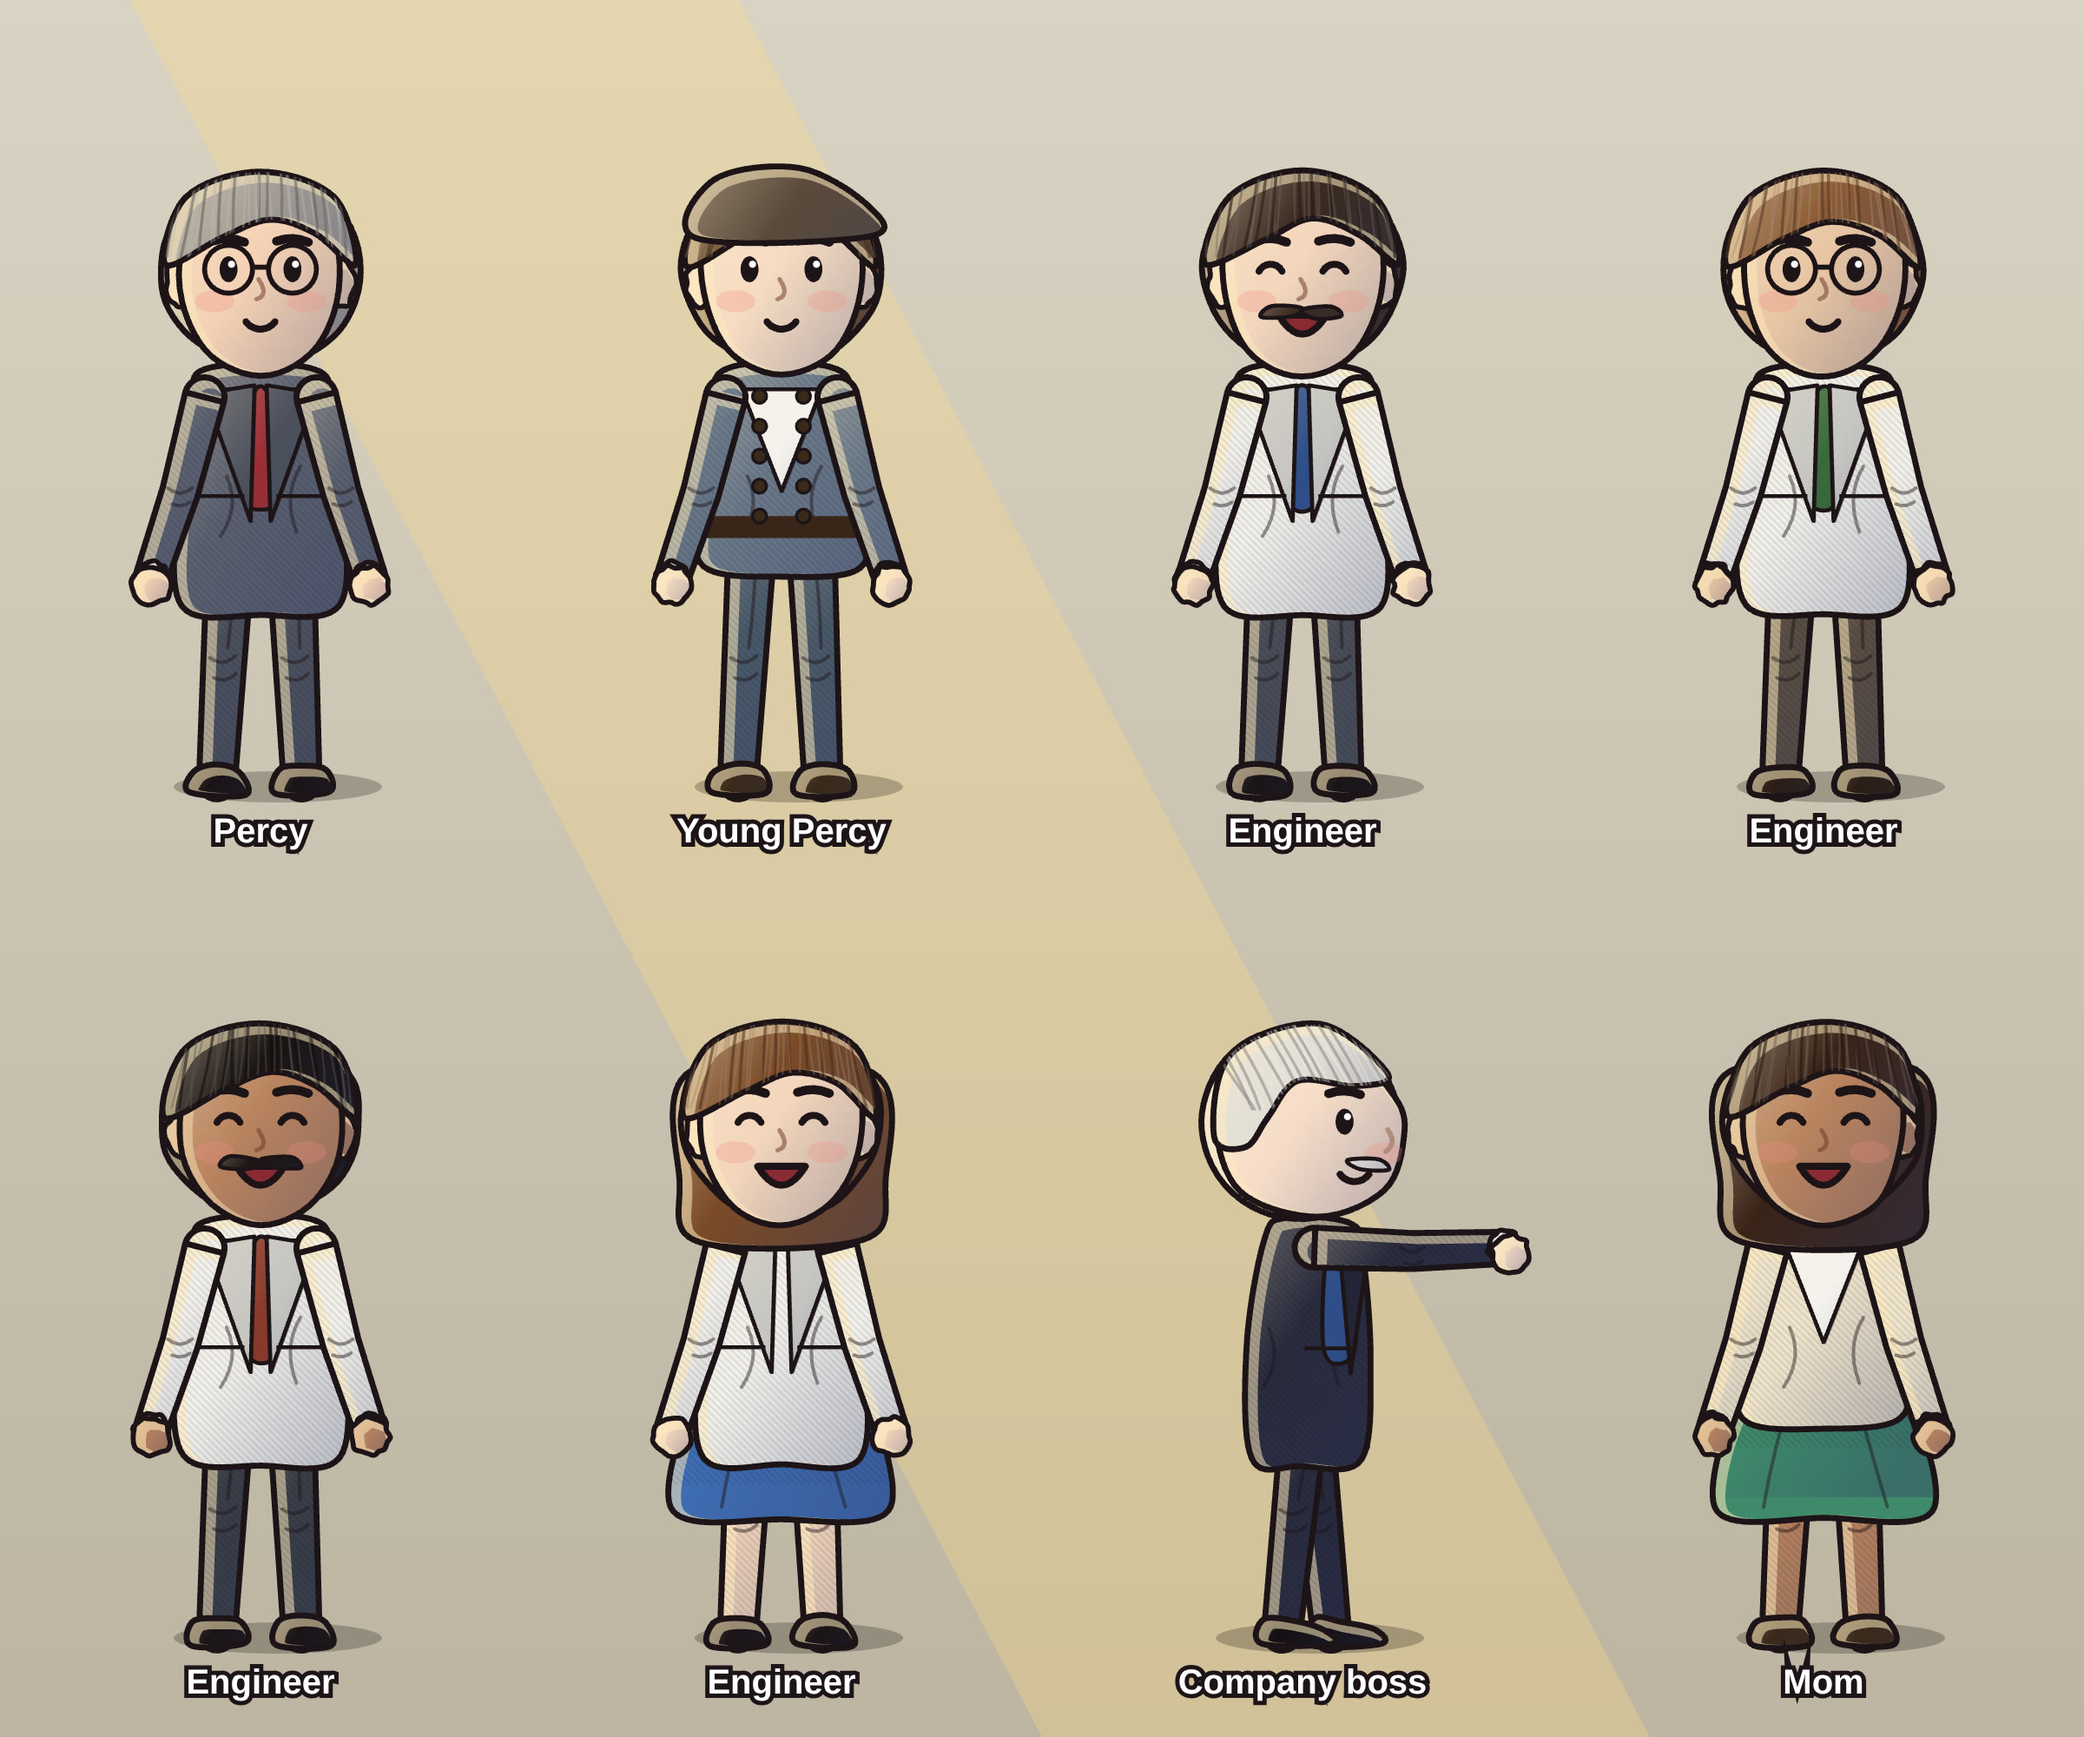
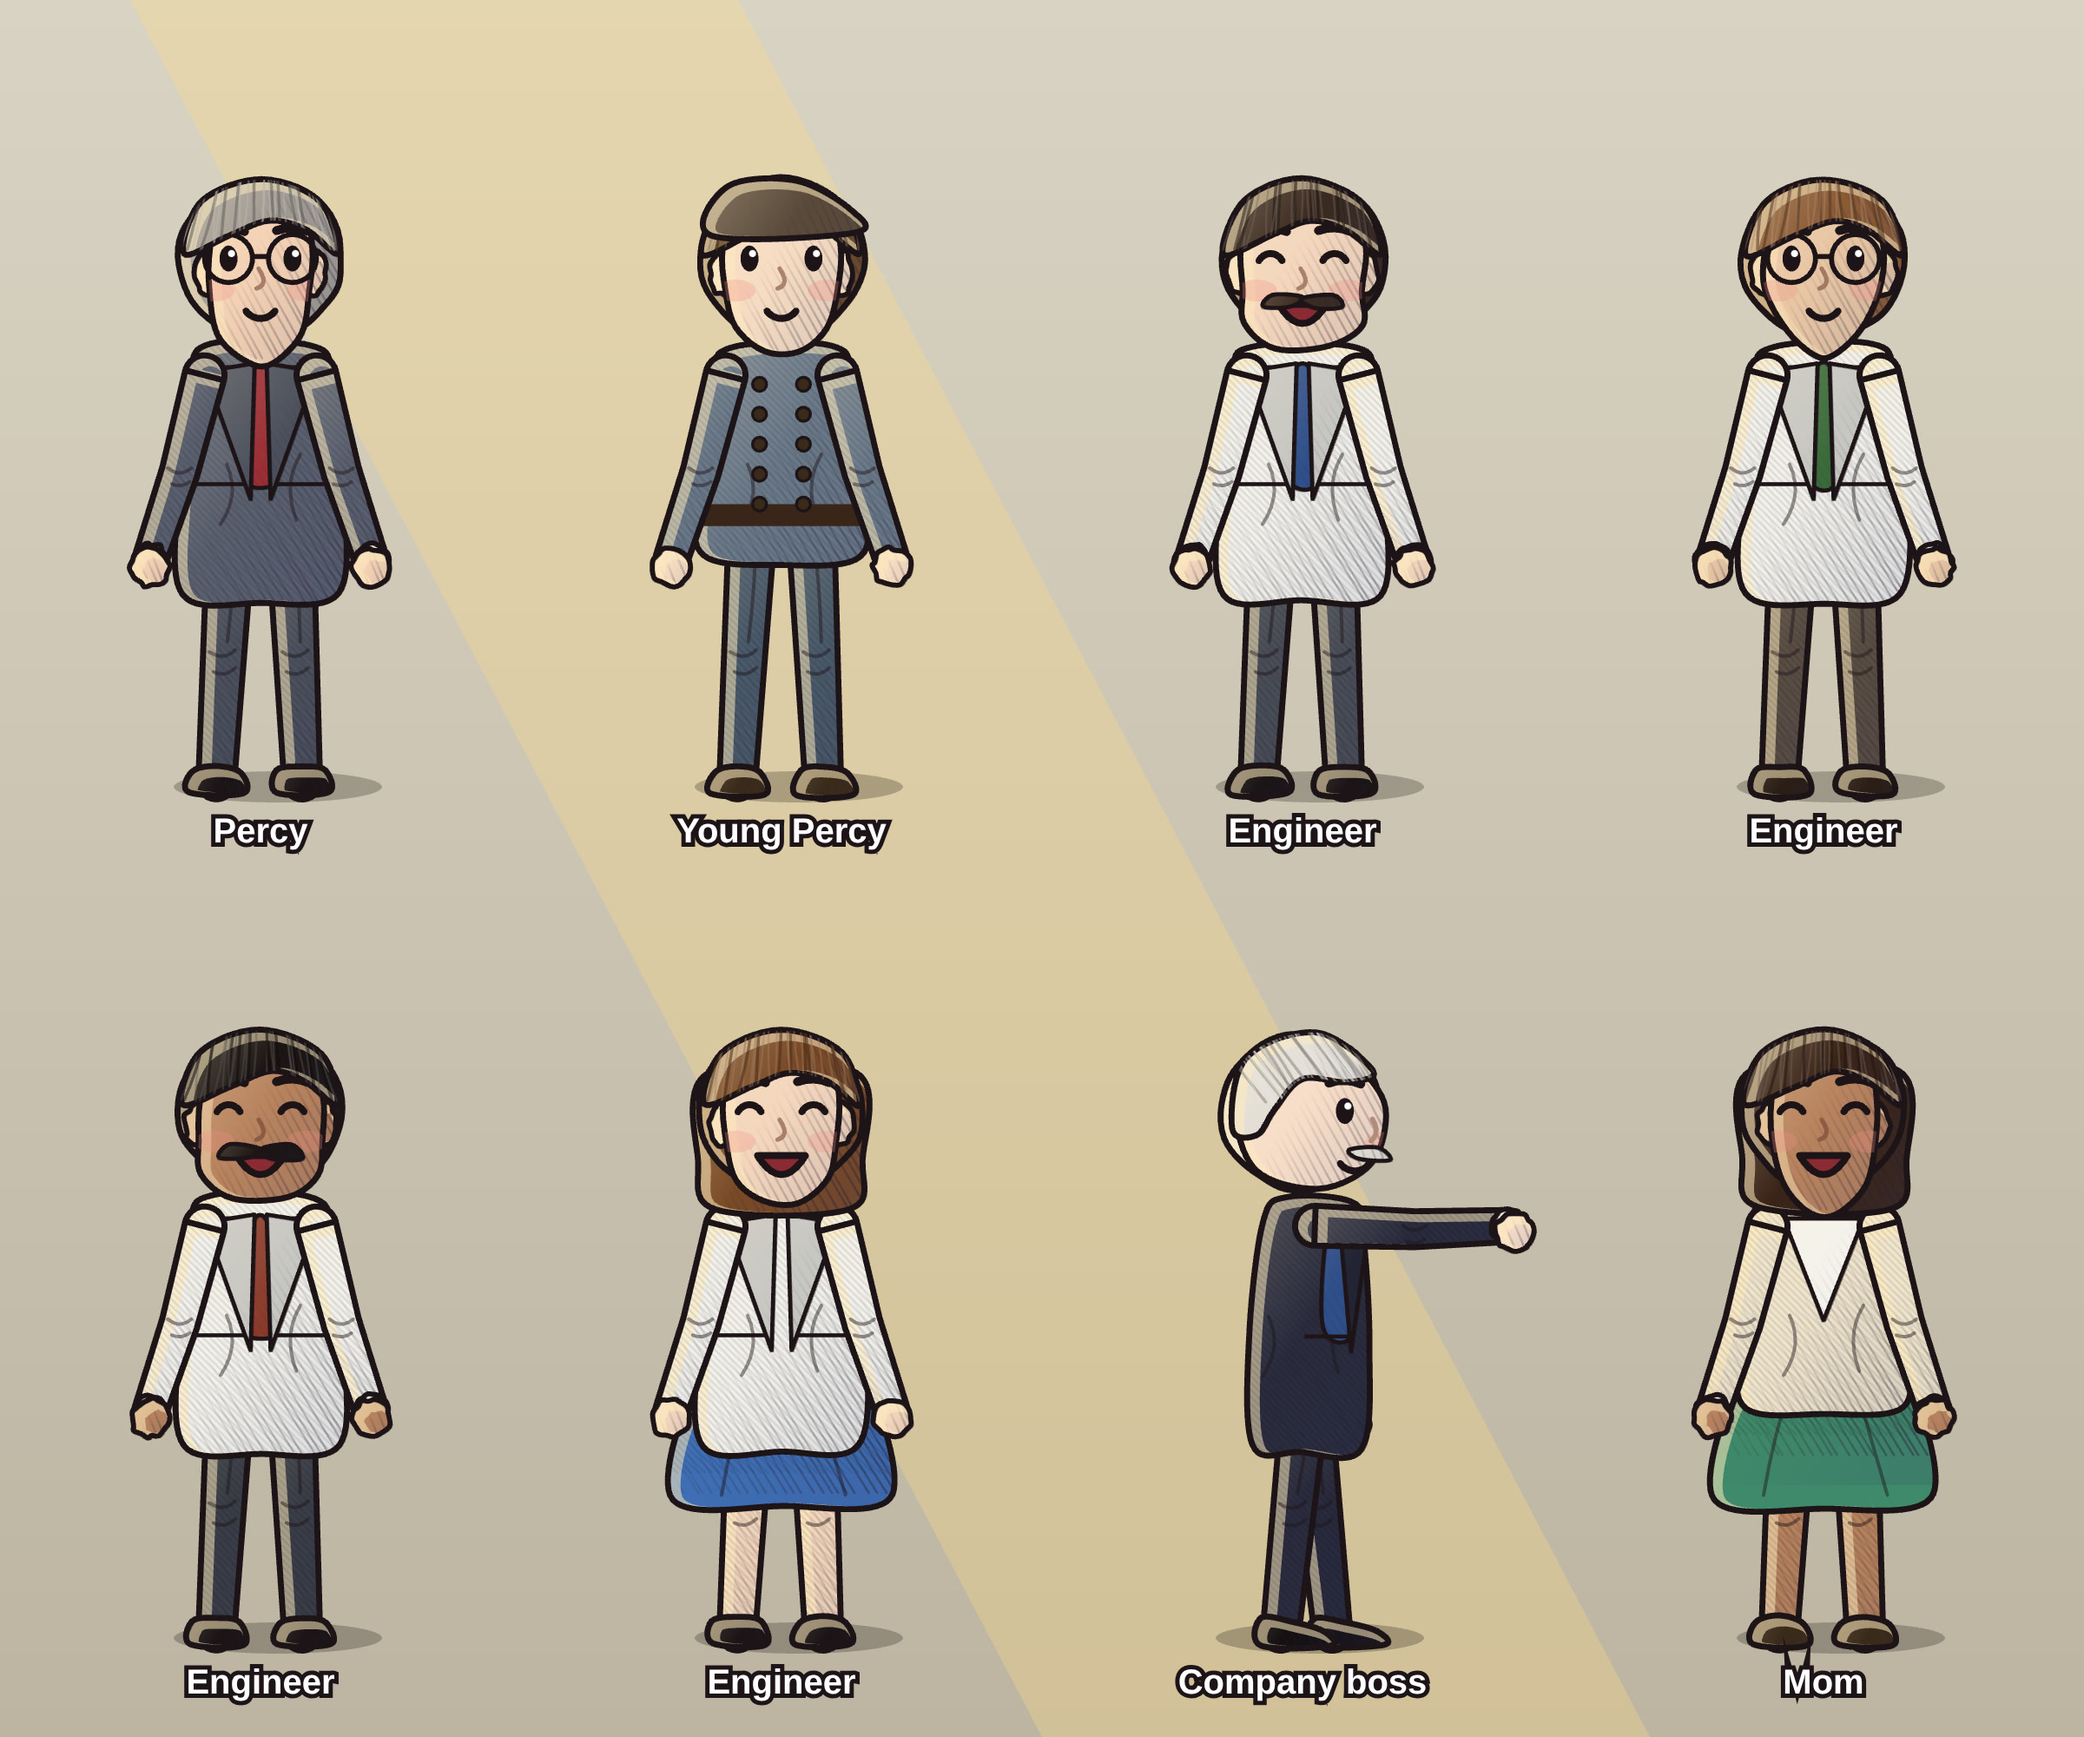
Microwave remake cast: varied face shapes, pencil hatching, sketchier ink
Claude-Session: https://claude.ai/code/session_01Q4bYRoWeHLz4Sfdu9inVyj

diff --git a/rig/rig3.js b/rig/rig3.js
@@ -18,15 +18,21 @@ function shadePath(g, path, base, sun, opts = {}) {
   g.clip(path);
   const b = bb || { x: -400, y: -800, w: 800, h: 900 }, cx = b.x + b.w / 2, cy = b.y + b.h / 2, R = Math.max(b.w, b.h) * 0.6;
   const gr = g.createLinearGradient(cx + lx * R, cy + ly * R, cx - lx * R, cy - ly * R);
-  gr.addColorStop(0, mixHex(base, "#fff0cf", 0.42 * sun.k));     // sunlit side: warm, soft
-  gr.addColorStop(0.45, base);
-  gr.addColorStop(1, mixHex(base, "#2c3768", 0.34 * sun.k));     // shadow side: cool
+  gr.addColorStop(0, mixHex(base, "#fff0cf", 0.3 * sun.k));     // sunlit side: warm, soft
+  gr.addColorStop(0.5, base);
+  gr.addColorStop(1, mixHex(base, "#2c3768", 0.14 * sun.k));     // shadow side: cool
   g.fillStyle = gr; g.fillRect(b.x - 50, b.y - 50, b.w + 100, b.h + 100);
+  { // pencil hatching that fades in toward the shadow side
+    const hg = g.createLinearGradient(cx + lx * R * 0.2, cy + ly * R * 0.2, cx - lx * R, cy - ly * R);
+    hg.addColorStop(0, "rgba(40,30,40,0)"); hg.addColorStop(1, `rgba(40,30,50,${0.42 * sun.k})`);
+    g.strokeStyle = hg; g.lineWidth = 2.2; g.lineCap = "round";
+    for (let t = -b.h - b.w; t < b.w + b.h; t += 9) { g.beginPath(); g.moveTo(b.x + t + jit() * 2, b.y - 20); g.lineTo(b.x + t + b.h * 0.7 + jit() * 3, b.y + b.h + 20); g.stroke(); }
+  }
   if (rim) { // warm rim light on the sun-facing edge
     g.translate(-lx * 7, -ly * 7); g.lineWidth = 14; g.strokeStyle = "rgba(255,236,190," + (0.55 * sun.k) + ")"; g.stroke(path);
   }
   g.restore();
-  if (ol) { g.lineWidth = ol; g.strokeStyle = INK; g.lineJoin = "round"; g.stroke(path); g.save(); g.translate(1.5, 1.1); g.lineWidth = ol * 0.45; g.strokeStyle = "rgba(29,20,24,0.5)"; g.stroke(path); g.restore(); }
+  if (ol) { g.lineWidth = ol; g.strokeStyle = INK; g.lineJoin = "round"; g.stroke(path); g.save(); g.translate(1.8, 1.2); g.lineWidth = ol * 0.4; g.strokeStyle = "rgba(29,20,24,0.55)"; g.stroke(path); g.translate(-3.2, 0.8); g.lineWidth = ol * 0.25; g.strokeStyle = "rgba(29,20,24,0.4)"; g.stroke(path); g.restore(); }
 }
 // cloth texture + fold lines inside a clipped garment
 function cloth(g, path, bb, col, folds = []) {
@@ -70,7 +76,7 @@ const smoothPoly = (pts0) => { // closed Catmull-Rom outline with a slight hand-
 
 // ---------------------------------------------------------------- skeleton
 // proportions (cartoon-human: big head, slim limbs)
-const B = { thigh: 118, shin: 118, upper: 98, fore: 92, torso: 175, neck: 18, head: 92, hipW: 30, shW: 56 };
+const B = { thigh: 124, shin: 124, upper: 100, fore: 94, torso: 185, neck: 22, head: 74, hipW: 30, shW: 56 };
 // pose: angles in degrees measured from straight down (positive = forward, toward facing direction)
 export const POSES = {
   stand: () => ({ lean: 0, hipL: 2, kneeL: 0, hipR: -2, kneeR: 0, shL: 6, elL: -8, shR: -6, elR: -8, head: 0, bob: 0 }),
@@ -177,8 +183,10 @@ function drawHead(g, sp, c, sun, F, pose, opt) {
   // ear (side)
   if (!F) shadePath(g, ell(x - 14, y + 6, 18, 24), C.skin, sun, { bb: { x: x - 40, y: y - 30, w: 60, h: 70 }, ol: 5 });
   // face
-  if (F) { for (const s2 of [-1, 1]) shadePath(g, ell(x + s2 * r * 0.86, y + 8, 16, 24), C.skin, sun, { bb: { x: x - r, y: y - r, w: 2 * r, h: 2 * r }, ol: 5 }); }
-  const face = F ? smoothPoly([[x, y - r * 1.02], [x + r * 0.62, y - r * 0.86], [x + r * 0.86, y - r * 0.3], [x + r * 0.84, y + r * 0.3], [x + r * 0.6, y + r * 0.8], [x + r * 0.2, y + r * 1.06], [x - r * 0.2, y + r * 1.06], [x - r * 0.6, y + r * 0.8], [x - r * 0.84, y + r * 0.3], [x - r * 0.86, y - r * 0.3], [x - r * 0.62, y - r * 0.86]]) : smoothPoly([[x - r, y - 10], [x - r * 0.7, y - r * 0.8], [x + r * 0.25, y - r * 0.98], [x + r * 0.95, y - r * 0.35], [x + r * 1.04, y + r * 0.15], [x + r * 0.8, y + r * 0.7], [x + r * 0.1, y + r * 0.98], [x - r * 0.75, y + r * 0.7]]);
+  if (F) { for (const s2 of [-1, 1]) shadePath(g, ell(x + s2 * r * ({ oval: 0.78, long: 0.7, square: 0.84, angular: 0.8 }[sp.faceShape || "oval"]), y + 8, 14, 22), C.skin, sun, { bb: { x: x - r, y: y - r, w: 2 * r, h: 2 * r }, ol: 5 }); }
+  const FS = { oval: [0.78, 0.62, 0.22, 1.18], long: [0.7, 0.55, 0.18, 1.32], square: [0.84, 0.8, 0.38, 1.12], angular: [0.8, 0.5, 0.12, 1.24] }[sp.faceShape || "oval"];
+  const [fw, jw, cw, fh] = FS;
+  const face = F ? smoothPoly([[x, y - r * 1.05], [x + r * fw * 0.78, y - r * 0.88], [x + r * fw, y - r * 0.25], [x + r * fw * 0.97, y + r * 0.35], [x + r * jw, y + r * fh * 0.72], [x + r * cw, y + r * fh], [x - r * cw, y + r * fh], [x - r * jw, y + r * fh * 0.72], [x - r * fw * 0.97, y + r * 0.35], [x - r * fw, y - r * 0.25], [x - r * fw * 0.78, y - r * 0.88]]) : smoothPoly([[x - r, y - 10], [x - r * 0.7, y - r * 0.8], [x + r * 0.25, y - r * 0.98], [x + r * 0.95, y - r * 0.35], [x + r * 1.04, y + r * 0.15], [x + r * 0.8, y + r * 0.7], [x + r * 0.1, y + r * 0.98], [x - r * 0.75, y + r * 0.7]]);
   shadePath(g, face, C.skin, { a: sun.a, k: sun.k * 0.8 }, { bb: { x: x - r, y: y - r, w: 2 * r, h: 2 * r } });
   // soft bounce light under the chin side and blush
   g.save(); g.clip(face);
@@ -273,20 +281,20 @@ export const CAST18 = {
 };
 
 export const MWC = {
-  percy: { name: "Percy", hair: "fringe", glasses: true, shirt: true, tie: true, lapels: true, pockets: true, pen: true, buttons: false, longCoat: true, expr: "neutral",
+  percy: { faceShape: "long", name: "Percy", hair: "fringe", glasses: true, shirt: true, tie: true, lapels: true, pockets: true, pen: true, buttons: false, longCoat: true, expr: "neutral",
     colors: { coat: "#5b6170", pants: "#4c515e", boots: "#1a1416", skin: "#f3d1b4", hair: "#a29c94", tie: "#9a2e34", buttons: "#2a2a2a" } },
-  kid: { name: "Young Percy", hat: "cap", hair: "fringe", shirt: true, buttons: true, belt: true, expr: "neutral",
+  kid: { faceShape: "oval", name: "Young Percy", hat: "cap", hair: "fringe", shirt: false, buttons: true, belt: true, expr: "neutral",
     colors: { coat: "#6b7a8a", pants: "#4a5a6a", boots: "#3a2a1a", skin: "#f6dcc2", hair: "#6a4a2a", hat: "#5a4a3a", buttons: "#3a2a1a", belt: "#3a2618" } },
-  eng1: { name: "Engineer", hair: "fringe", shirt: true, tie: true, lapels: true, pockets: true, pen: true, longCoat: true, stache: true, expr: "happy",
+  eng1: { faceShape: "square", name: "Engineer", hair: "fringe", shirt: true, tie: true, lapels: true, pockets: true, pen: true, longCoat: true, stache: true, expr: "happy",
     colors: { coat: "#f2f1ec", pants: "#4a4e58", boots: "#1a1416", skin: "#f3d6bc", hair: "#3a2a20", tie: "#2f4f8a" } },
-  eng2: { name: "Engineer", hair: "fringe", glasses: true, shirt: true, tie: true, lapels: true, pockets: true, longCoat: true, expr: "neutral",
+  eng2: { faceShape: "angular", name: "Engineer", hair: "fringe", glasses: true, shirt: true, tie: true, lapels: true, pockets: true, longCoat: true, expr: "neutral",
     colors: { coat: "#f2f1ec", pants: "#5a4e44", boots: "#2a1e16", skin: "#e8c6a4", hair: "#8a5a34", tie: "#3a6a3a" } },
-  eng3: { name: "Engineer", hair: "fringe", shirt: true, tie: true, lapels: true, pockets: true, longCoat: true, stache: true, expr: "happy",
+  eng3: { faceShape: "square", name: "Engineer", hair: "fringe", shirt: true, tie: true, lapels: true, pockets: true, longCoat: true, stache: true, expr: "happy",
     colors: { coat: "#f2f1ec", pants: "#3a3e48", boots: "#1a1416", skin: "#b8835e", hair: "#1a1412", tie: "#8a3a2a" } },
-  engw: { name: "Engineer", hair: "fringe", longHair: true, dress: true, lapels: true, pockets: true, longCoat: true, expr: "happy",
+  engw: { faceShape: "oval", name: "Engineer", hair: "fringe", longHair: true, dress: true, lapels: true, pockets: true, longCoat: true, expr: "happy",
     colors: { coat: "#f2f1ec", pants: "#f3d6bc", boots: "#1a1416", skin: "#f3d6bc", hair: "#7a4a26", dress: "#3f6fb5" } },
-  boss: { name: "Company boss", hair: "fringe", shirt: true, tie: true, lapels: true, pockets: true, longCoat: true, stache: true, expr: "neutral",
+  boss: { faceShape: "square", name: "Company boss", hair: "fringe", shirt: true, tie: true, lapels: true, pockets: true, longCoat: true, stache: true, expr: "neutral",
     colors: { coat: "#2a2c3e", pants: "#2a2c3e", boots: "#141012", skin: "#f6ddc8", hair: "#e2ded6", tie: "#2f4f8a" } },
-  mom: { name: "Mom", hair: "fringe", longHair: true, dress: true, shirt: true, expr: "happy",
+  mom: { faceShape: "long", name: "Mom", hair: "fringe", longHair: true, dress: true, shirt: true, expr: "happy",
     colors: { coat: "#efe4cc", pants: "#b8835e", boots: "#3a2a1a", skin: "#b8835e", hair: "#3a2418", dress: "#3f8a6a" } },
 };
